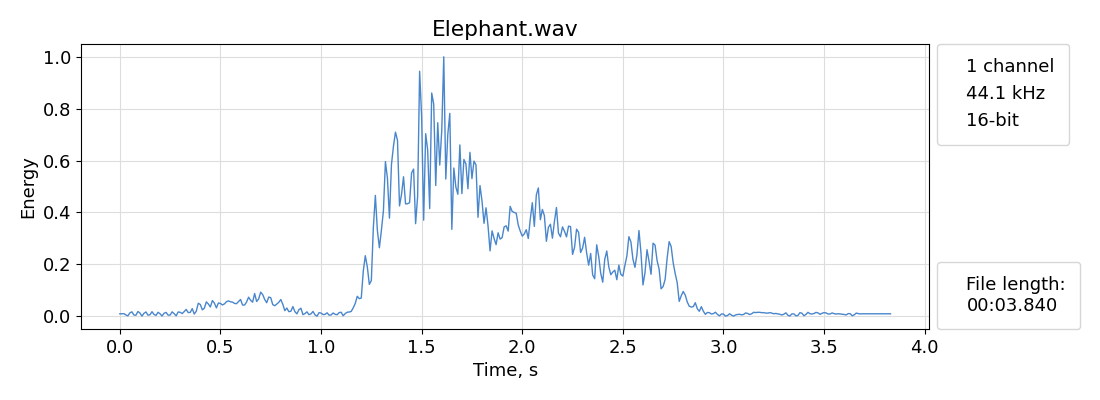
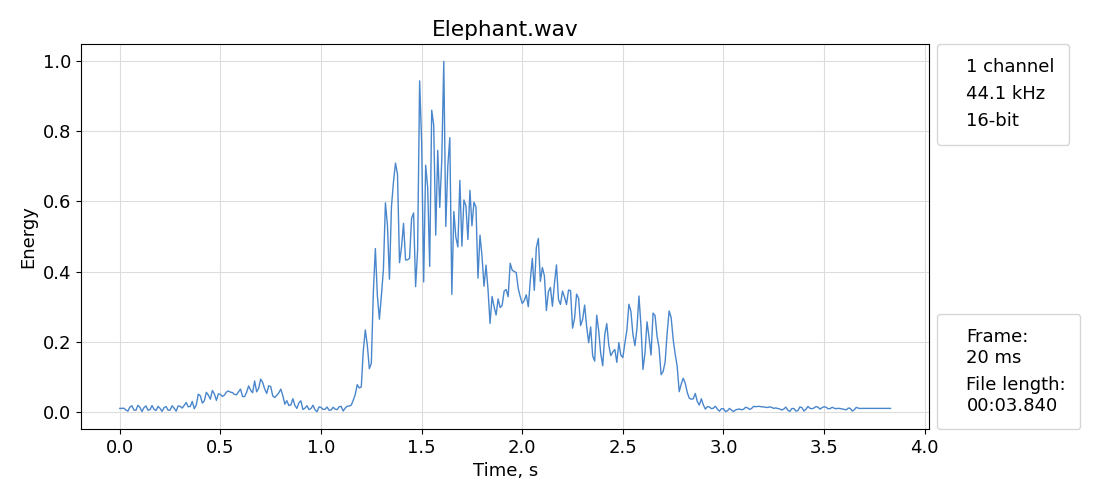
added frame size in ms to plot legend

diff --git a/main.py b/main.py
@@ -82,15 +82,18 @@ def plotFilePropLegend(channel_count, samplerate, bit_depth):
     leg = plt.legend(handles=handles, handlelength=0, borderpad=0.8, bbox_to_anchor=(1.01, 1), loc='upper left', borderaxespad=0.)
     plt.gca().add_artist(leg)
 
-def plotTimeLegend(duration, marker, markerTime=''):
+def plotTimeLegend(duration, marker, markerTime='', timeFrame=0):
     timeLegend = []
+    if(timeFrame > 0):
+        timeFrameLegend = createLegendPatch(f"Frame:\n{timeFrame} ms")
+        timeLegend.append(timeFrameLegend)
     if(marker):
         timeLegend.append(markerTime)
     audioTime = createLegendPatch(f"File length:\n{convertTimeToReadableString(duration)}")
     timeLegend.append(audioTime)
     plt.legend(handles=timeLegend, handlelength=0, borderpad=0.8, bbox_to_anchor=(1.01, 0), loc='lower left', borderaxespad=0.)
 
-def plotMono(file, data, time, marker = False, segments = [], line_wt = 0.5, y_label = ''):
+def plotMono(file, data, time, marker=False, segments=[], line_wt=0.5, y_label='', timeFrame=0):
     x = time
     if(file.duration >= 60):
         x = x/60
@@ -98,7 +101,7 @@ def plotMono(file, data, time, marker = False, segments = [], line_wt = 0.5, y_l
 
     figure = plt.figure()
     figure.set_figwidth(11)
-    figure.set_figheight(4)
+    figure.set_figheight(5)
 
     plt.title(file.file_name)
     plt.grid(color='#ddd')
@@ -111,6 +114,8 @@ def plotMono(file, data, time, marker = False, segments = [], line_wt = 0.5, y_l
         markerTime, markerTimestamp = createMarker(file.duration)
         plt.axvline(x=markerTimestamp, color='#ff3838')
         plotTimeLegend(file.duration, marker, markerTime)
+    elif(timeFrame > 0):
+        plotTimeLegend(file.duration, marker, timeFrame=timeFrame)
     else:
         plotTimeLegend(file.duration, marker)
 
@@ -123,7 +128,7 @@ def plotMono(file, data, time, marker = False, segments = [], line_wt = 0.5, y_l
     plt.tight_layout()
     plt.show()
 
-def plotStereo(file, data, time, marker = False, segments = [], line_wt = 0.5, y_label = ''):
+def plotStereo(file, data, time, marker = False, segments = [], line_wt = 0.5, y_label = '', timeFrame=0):
     x = time
     if(file.duration >= 60):
         x = x/60
@@ -141,6 +146,8 @@ def plotStereo(file, data, time, marker = False, segments = [], line_wt = 0.5, y
     if(marker):
         markerTime, markerTimestamp = createMarker(file.duration)
         plotTimeLegend(file.duration, marker, markerTime)
+    elif(timeFrame > 0):
+        plotTimeLegend(file.duration, marker, timeFrame=timeFrame)
     else:
         plotTimeLegend(file.duration, marker)
 
@@ -226,7 +233,7 @@ def findSegments(data, step):
 def handleMonoSignal(file, plotType):
 
     if(plotType == "timePlot"):
-        plotMono(file, file.data, np.arange(0, file.duration, 1/file.samplerate), marker=True)
+        plotMono(file, file.data, np.arange(0, file.duration, 1/file.samplerate), marker=False)
     
     else:
         timeFrame = int(input("Enter frame size in ms.\n> "))
@@ -237,22 +244,22 @@ def handleMonoSignal(file, plotType):
 
         if(plotType == "energyPlot"):
             energy = calculateEnergy(normalized_data_frames)
-            plotMono(file, normalizeData(energy), time, line_wt=1, y_label='Energy')
+            plotMono(file, normalizeData(energy), time, line_wt=1, y_label='Energy', timeFrame=timeFrame)
 
         elif(plotType == "segmentPlot"):
             energy = calculateEnergy(normalized_data_frames)
             step = float(input("Enter step size.\n> "))
             segments = findSegments(normalizeData(energy), step)
-            plotMono(file, normalizeData(energy), time, segments=segments, line_wt=1, y_label='Energy')
+            plotMono(file, normalizeData(energy), time, segments=segments, line_wt=1, y_label='Energy', timeFrame=timeFrame)
         
         elif(plotType == "zeroCrossingRatePlot"):
             ZCR = calculateZeroCrossingRate(data_frames)
-            plotMono(file, normalizeData(ZCR), time, line_wt=1, y_label='Zero-Crossing Rate')
+            plotMono(file, normalizeData(ZCR), time, line_wt=1, y_label='Zero-Crossing Rate', timeFrame=timeFrame)
 
 def handleStereoSignal(file, plotType):
     
     if(plotType == "timePlot"):
-        plotStereo(file, file.data, np.arange(0, file.duration, 1/file.samplerate), marker=True, y_label='Values')
+        plotStereo(file, file.data, np.arange(0, file.duration, 1/file.samplerate), marker=False, y_label='Values')
     
     else:
         timeFrame = int(input("Enter frame size in ms.\n> "))
@@ -269,7 +276,7 @@ def handleStereoSignal(file, plotType):
             for i in range(0, file.channel_count):
                 energy.append(normalizeData(calculateEnergy(normalized_data_frames[i])))
             
-            plotStereo(file, energy, time, line_wt=1, y_label='Energy')
+            plotStereo(file, energy, time, line_wt=1, y_label='Energy', timeFrame=timeFrame)
 
         elif(plotType == "segmentPlot"):
             energy, segments = [], []
@@ -278,13 +285,13 @@ def handleStereoSignal(file, plotType):
             step = float(input("Enter step size.\n> "))
             for i in range(0, file.channel_count):
                 segments.append(findSegments(energy[i], step))
-            plotStereo(file, energy, time, segments=segments, line_wt=1, y_label='Energy')
+            plotStereo(file, energy, time, segments=segments, line_wt=1, y_label='Energy', timeFrame=timeFrame)
         
         elif(plotType == "zeroCrossingRatePlot"):
             ZCR = []
             for i in range(0, file.channel_count):
                 ZCR.append(calculateZeroCrossingRate(data_frames[i]))
-            plotStereo(file, ZCR, time, line_wt=1, y_label='Zero-Crossing Rate')
+            plotStereo(file, ZCR, time, line_wt=1, y_label='Zero-Crossing Rate', timeFrame=timeFrame)
 
 def fileMenuDialog():
     file = readData()
